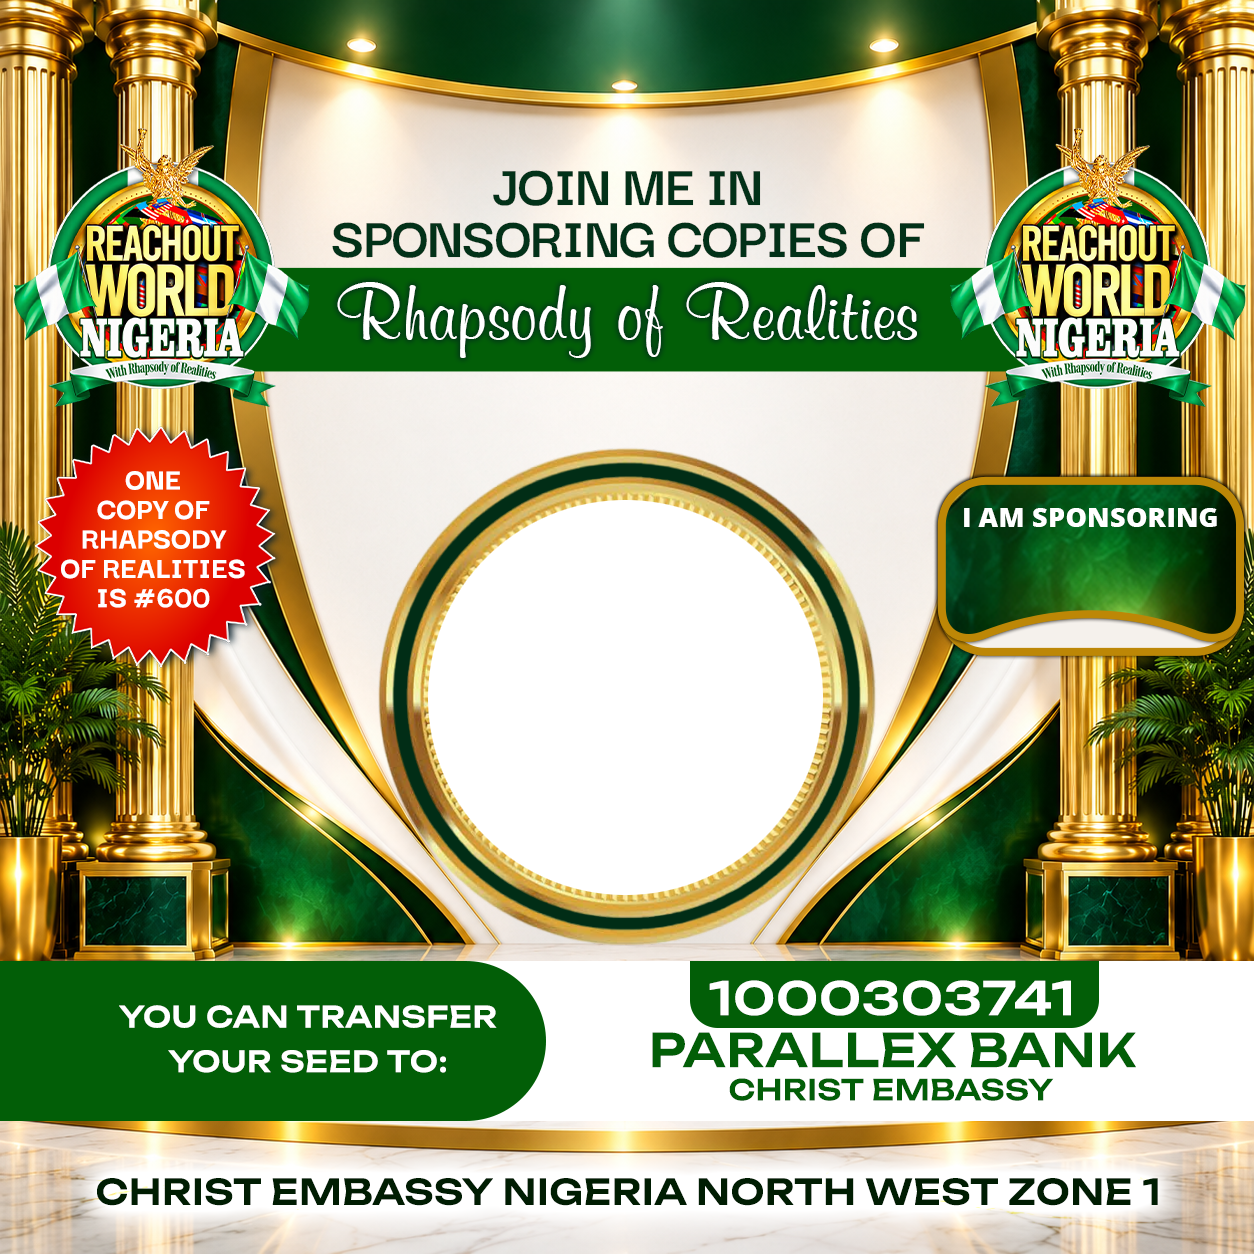
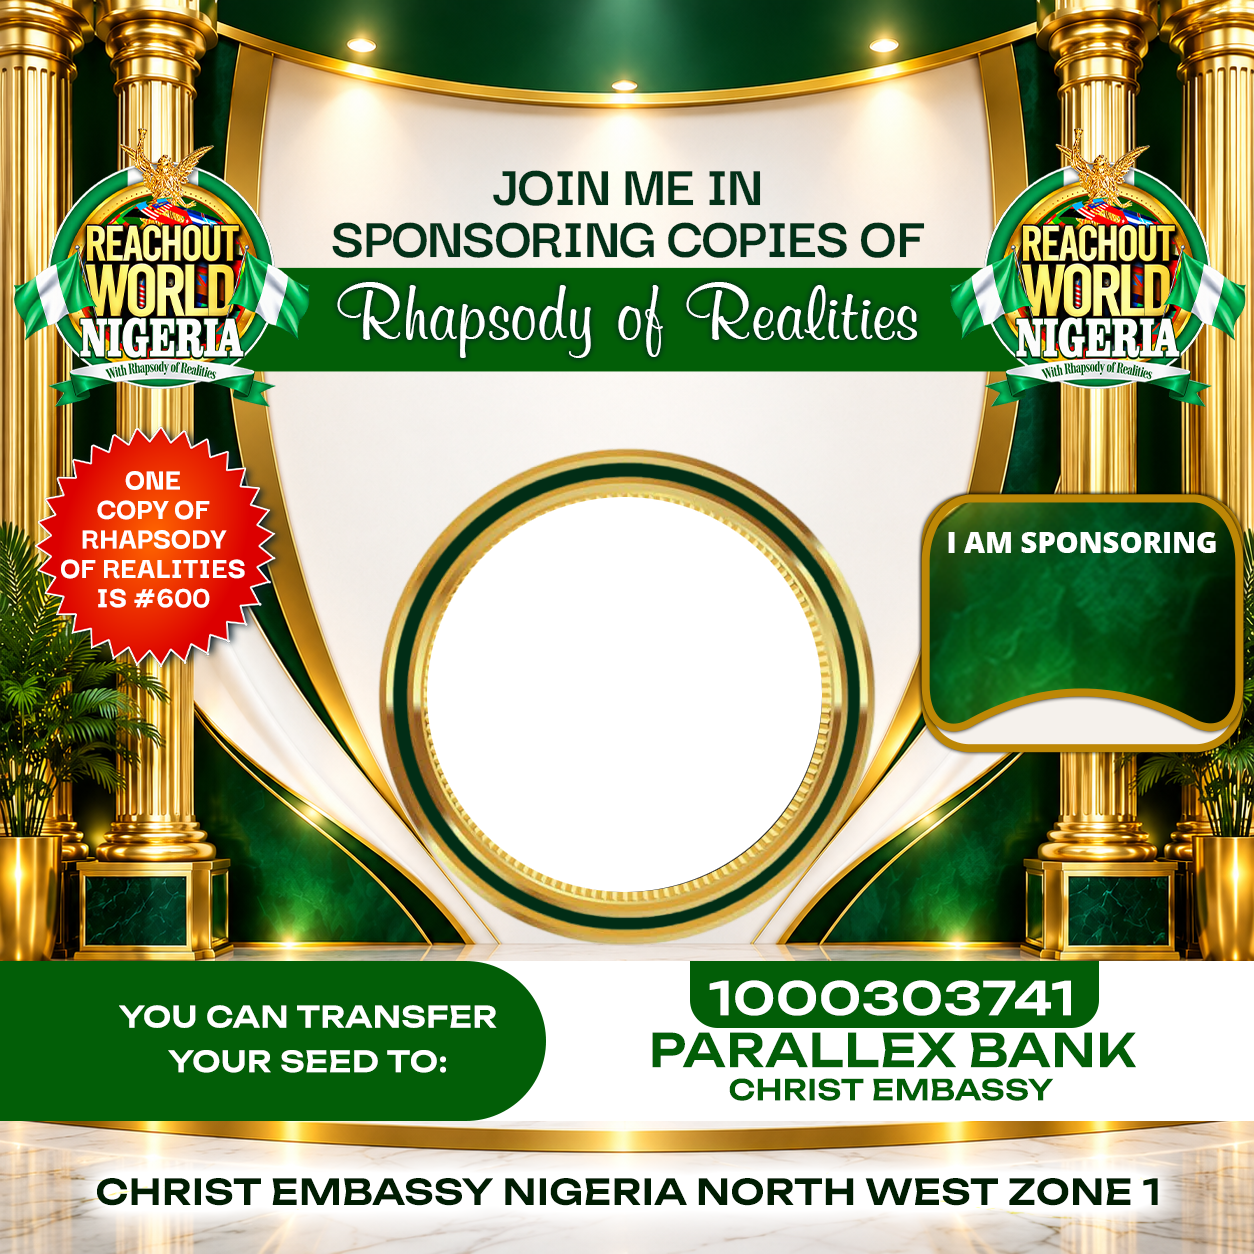
Update

diff --git a/src/config/avatarFrames.ts b/src/config/avatarFrames.ts
@@ -12,6 +12,7 @@ export interface AvatarCopiesConfig {
 
   fontSize: number;
   labelFontSize: number;
+  labelGap: number;
 
   color?: string;
   labelColor?: string;
@@ -48,16 +49,19 @@ export const avatarFrames = {
 
     copiesSponsored: {
       x: 1330,
-      y: 705,
+      y: 750,
 
-      fontSize: 70,
+      fontSize: 75,
       labelFontSize: 42,
+      labelGap: 10,
 
       color: "#FFFFFF",
-      labelColor: "#021f14",
+      labelColor: "#FFFFFF",
 
-      fontFamily: '"Arial Black", Arial, sans-serif',
-      labelFontFamily: "Arial, sans-serif",
+      fontFamily:
+        '"Arial Black", Arial, sans-serif',
+      labelFontFamily:
+        "Arial, sans-serif",
 
       fontWeight: 900,
       labelFontWeight: 700,

diff --git a/src/components/AvatarCanvas.tsx b/src/components/AvatarCanvas.tsx
@@ -575,11 +575,16 @@ const AvatarCanvas = forwardRef<
           context.font =
             `${labelFontWeight} ${labelFontSize}px ${labelFontFamily}`;
 
+          const labelY =
+            textY +
+            fontSize / 2 +
+            copiesConfig.labelGap +
+            labelFontSize / 2;
+
           context.fillText(
             "Copies",
             textX,
-            textY +
-              fontSize * 0.72
+            labelY
           );
         } catch (error) {
           if (!cancelled) {
